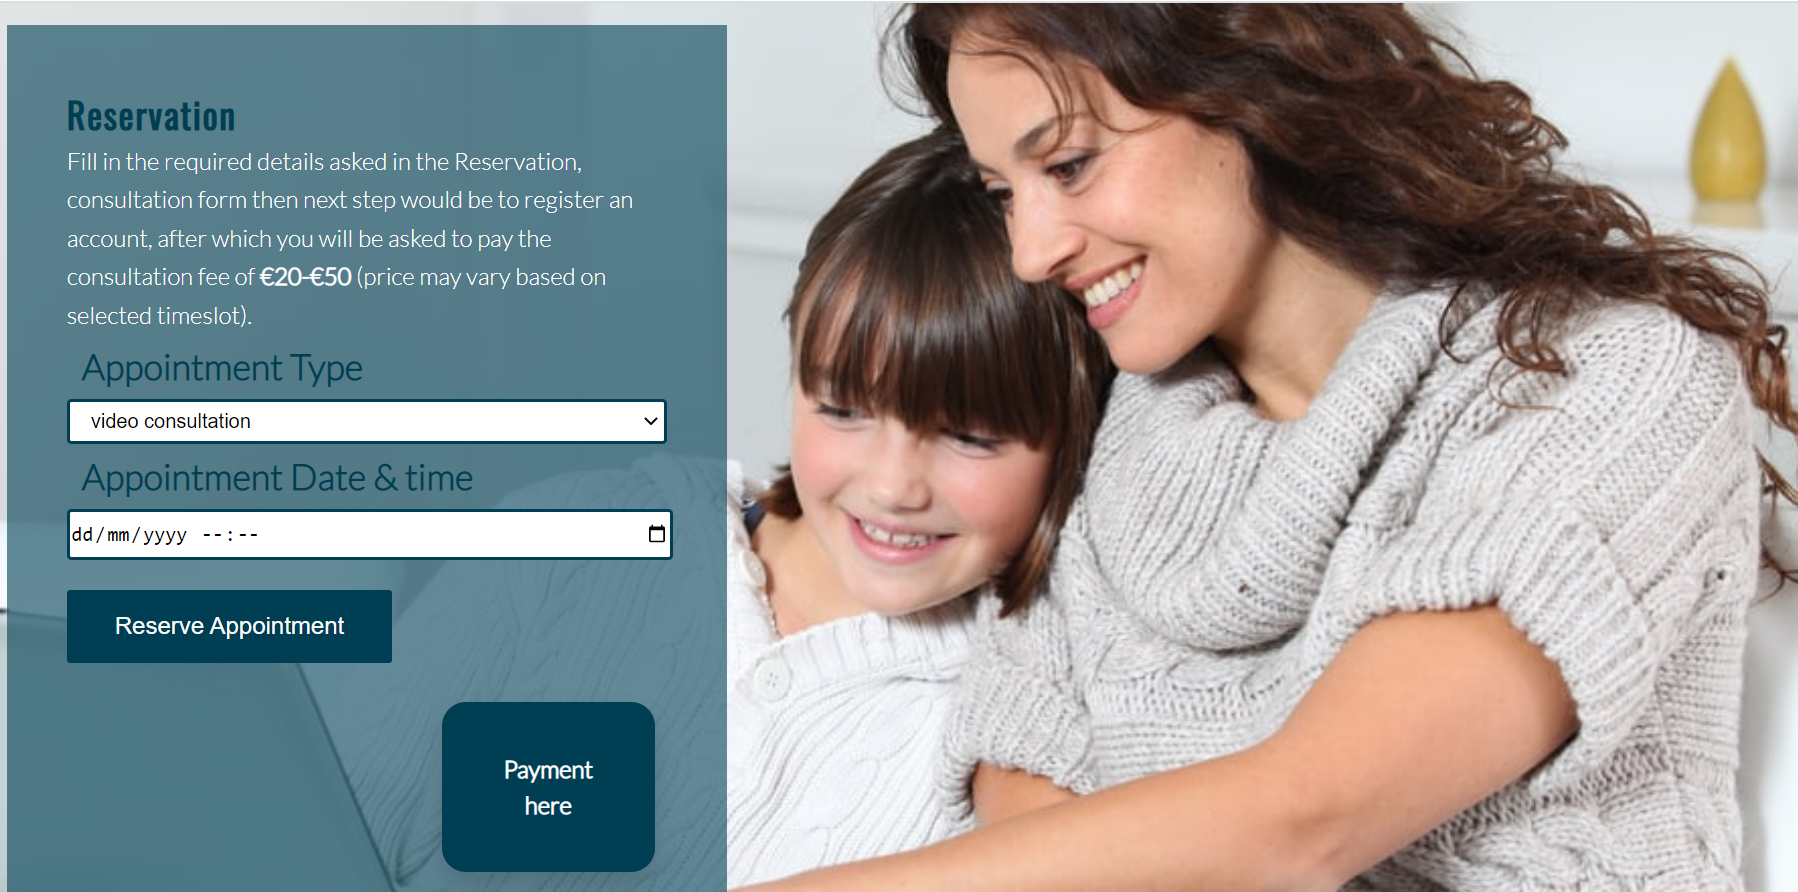
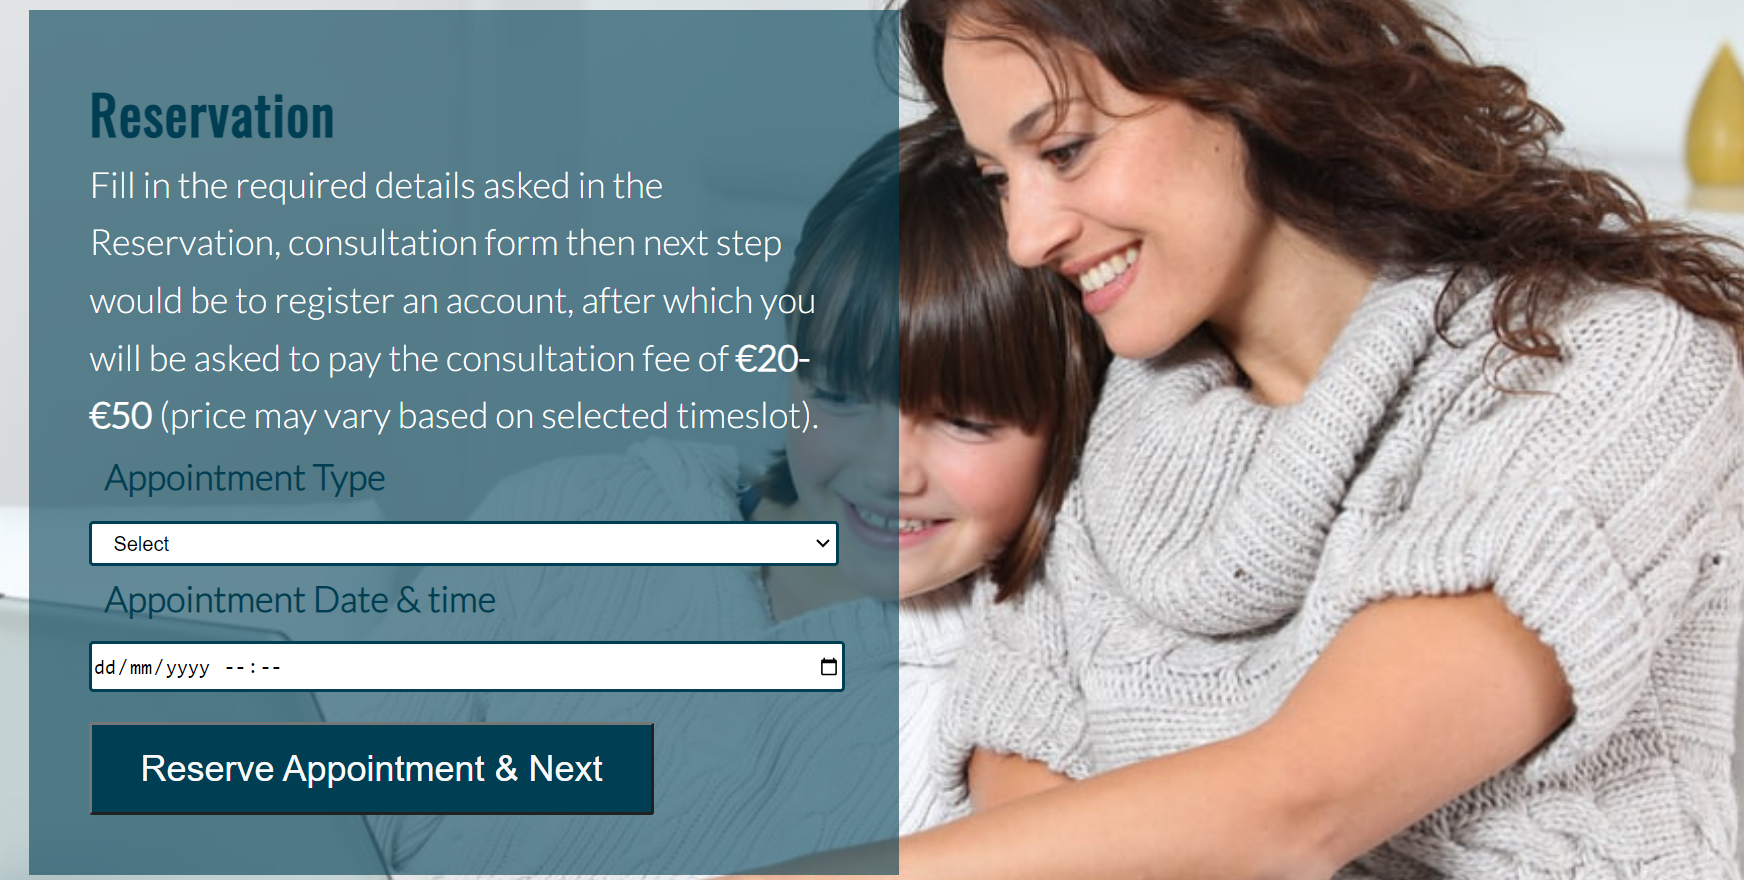
update readme section and add new images for the site after updatation

diff --git a/assets/css/style.css b/assets/css/style.css
@@ -1561,6 +1561,7 @@ header {
     margin-left: 0.1em;
     margin-right: 0.5px;
     padding-left: 2px;
+    padding-bottom: 10px;
 }
 
 
@@ -2207,7 +2208,7 @@ footer > p {
     font-size: 2rem;
     margin-left: 0.1em;
     padding-left: 2px;
-    padding-bottom: 2px;
+    padding-bottom: 20px;
 }
 
 
@@ -2769,10 +2770,10 @@ header {
 }    
 
 #logo {
-    font-size: 3.5rem;
+    font-size: 350%;
     line-height: 80px;
     margin-top: 15px;
-    margin-left: 20px;
+    margin-left: 10px;
     margin-bottom: 50px;
  
      
@@ -2805,7 +2806,7 @@ header {
  .dropbtn {
      border: none;
      cursor: pointer;
-     margin-right: 5px;
+     margin-right: 2px;
      margin-top: 30px;
      
    }

diff --git a/README.md b/README.md
@@ -19,20 +19,27 @@ Wireframes image here
 ![Home page navigation bar image](assets/images/gponline-wireframe.png)
 
 ## Features
-This Usefull website presents many diferent sections for how some one book a gp phone consultation or vedio consultation after registration and signup and what includes in these consultation like "A complete GP consultation", "digital prescription" , "medical Cert" and "referral letters".
+This Usefull website presents many diferent sections for how some one book a gp phone consultation or vedio consultation and what includes in these consultation like "A complete GP consultation", "digital prescription" , "medical Cert" and "referral letters".
 [View GP Online website on Github Page](https://github.com/Shazi-dani/GP-Online.git)
 
 ## Navigation Bar
-The entire responsive navigation bar is included on all five pages and is different in each one for ease of navigation.At home page its contains Logo and links to the Home Page, How its work, Contact,Register and Sign In page.
+The entire responsive navigation bar is included on all  pages and is different in each one for ease of navigation.At home page its contains Logo and links to the Home Page, How its work, Contact,and book Consultation.
 ![Home page navigation bar image](assets/images/header-sec-image.png)
 
 
-At registration and sign In page include Logo , home page link 
-![registration and sign In navigation bar image](assets/images/register&signin-page-img.png)
+Booking page include Logo , home page link 
+![booking form page nevigation bar image](assets/images/bookform-header.png)
 
 
-and at GP phone and vedio consultation page includes Logo,Home and Registration links are available. With the help of this navigation, users will be able to move between pages on all devices without constantly pressing the "back" button to return to the previous page.
-![GP telephone and vedio consultation page navigation bar image](assets/images/gpbooking-page-header-img.png)
+and at GP phone and vedio consultation page includes Logo and links to the Home Page, How its work, Contact,and book Consultation, With the help of this navigation, users will be able to move between pages on all devices without constantly pressing the "back" button to return to the previous page.
+![GP telephone and vedio consultation page navigation bar image](assets/images/header-sec-image.png)
+
+## Small screen nevigation bar
+
+I used dropdown neviagation bar for all pages in small screens.
+
+
+![navigation bar dropdown image for all pages](assets/images/header-dropdown.png)
 
 
 ## Landing Page Main Image section
@@ -69,32 +76,28 @@ The user benefits from the footer since it encourages them to stay engaged on so
 ![Footer image here](assets/images/footer-sec-img.png)
 
 
-## Registration Page
-This page will allows the user do registration through a form. After registration completion popup tab opeb which confirms registration is done and redirect user to sign in page.
-![Registration Page image](assets/images/register-image.png)
-
-
-## Sign In Page
-This page allows the user to sign in and after sign in they can book GP consultation and do payment.
-![Sign In Page image](assets/images/signin-page-img.png)
-
-
 ## Telephone Consultation page
 
-This page allows the user to easily book a Telephone consultation with one of our GP. First they have to select type of consultation then choose date and time,Do payment after booking.this page also include payment page link .
+This page allows the user to easily book a Telephone consultation with one of our GP.After selecting type of consultation then choose date and time and when user press reservetion button it will bring the user to booking gp form page.
 ![Telephone reservation Page image](assets/images/tele-res-page.png)
 
 
 ## Video Consultation page
  
-This page allows the user to easily book a Video consultation with one of our GP. First they have to select type of consultation then choose date and time,Do payment after booking.this page also include payment page link.
+This page allows the user to easily book a Video consultation with one of our GP. After selecting type of consultation then choose date and time and when user press reservetion button it will bring the user to booking gp form page.
 ![Video reservation Page image](assets/images/vid-res-page.png)
 
 
-## Payment page
+## Booking Form Page
+This page will allows the user to book a GP With gp booking form. After completion  form when user press on book now button a popup tab open which confirms reserveation is done and redirect user to home page after reservation.
+![Booking form Page image](assets/images/booking-form.png)
 
-After booking consultation the user have to do payment through payment page.this page include payments details form.
-![Payment page image](assets/images/payment-page-img.png)
+## Popup Tab
+
+when reservation done and user press the book here button on booking form a pop up meassage appears on screen.
+
+![Pop Up message image](assets/images/popup-img.png)
+
 
 
 ## Features Left to Implement
@@ -104,7 +107,7 @@ Technologies / Support Used like
 * when user sign in it will redirect the user to a user dashboard which will have booking appointment link,payment link for doing payments and all details related to their health ,booking time date and time ,prescriptions order details, referrals letters details etc
 
 * when user Do payment they will received an email related to their consultation date ,time and also received a questionnare.
-Before we prescribe you the required medication, we would like to check if this product is suitable for you. You will be asked to fill in a short online questionnare. Once completed Based on the questionnare answer, our GP will either recommend a treatment (send a prescription directly to the pharmacy or a medical certificate directly to you, if the case) or send you a referral letter for a specialist or emergecny department for consultation, Xrays,Ultaround or Scans.
+Before we prescribe you the required medication, we would like to check if this product is suitable for you. user will be asked to fill in a short online questionnare. Once completed Based on the questionnare answer, our GP will either recommend a treatment (send a prescription directly to the pharmacy or a medical certificate directly to you, if the case) or send you a referral letter for a specialist or emergecny department for consultation, Xrays,Ultaround or Scans.
 
 * prescripition order section for ordering prescription directlly without consultation.
 * few java quries left for making website more responsive
@@ -120,7 +123,7 @@ Love Running provided the main structure and information for my Header and how i
 * Codeanywhere - used to code within and provided backups of all my code.
 * GitHub - for my repository and external project deployment.
 * Google Fonts and font awesome - for my font choose for the project.
-* Youtube vedios - for understanding flex,responsive website and payment details entering form.
+* Youtube vedios - for understanding flex,responsive website and for popup java script code.
 * Lucid App - used for wireframe.(https://lucid.app/lucidchart/a325f522-4f26-47cd-b215-18d64c454b19/edit?invitationId=inv_0aede0b5-4bf6-4b57-89ea-ef34ddbe5e7f&page=0_0#)
 * Google Dev Tools - To troubleshoot and test features, solve issues with responsiveness and styling.
 
@@ -135,11 +138,8 @@ Testing During development of the pages was done throughout the project to see h
 |Header Title       |To go to Home Page    |Click On |Taken to Home Page       |
 |Menu Bar           |To go to Named page   |Click On |Taken to Named Page      |
 |Menue Bar          |To go to External Link|Click On |Taken to External Link   |
-|Image links        |To go to Named page   |Click On |Taken to Named Page      |
 |Internal links     |To go to Section      |Click On |Taken to Section of Page |
 |External Links     |To go to External Link|Click On |Taken to External Link   |
-|YouTube Video      |Play on request       |Click On |Plays on user request    |
-|Google Map         |External if requested |Click On |External on user request |
 
 ### User Testing
 
@@ -169,13 +169,9 @@ As a user I was able to undersatnd how to use the site and what is the purpose o
 
 ![index page lighthouse testing image](assets/images/index-page-testing.png)
 
-  + Register page lighthouse testing image below
+  + Booking page lighthouse testing image below
 
-![index page lighthouse testing image](assets/images/register-page-testing.png)
-
-  + Sign In page lighthouse testing image below
-
-![index page lighthouse testing image](assets/images/signin-page-testing.png)
+![index page lighthouse testing image](assets/images/booking-page-testing.png)
 
   + Telephone GP booking page lighthouse testing image below
 
